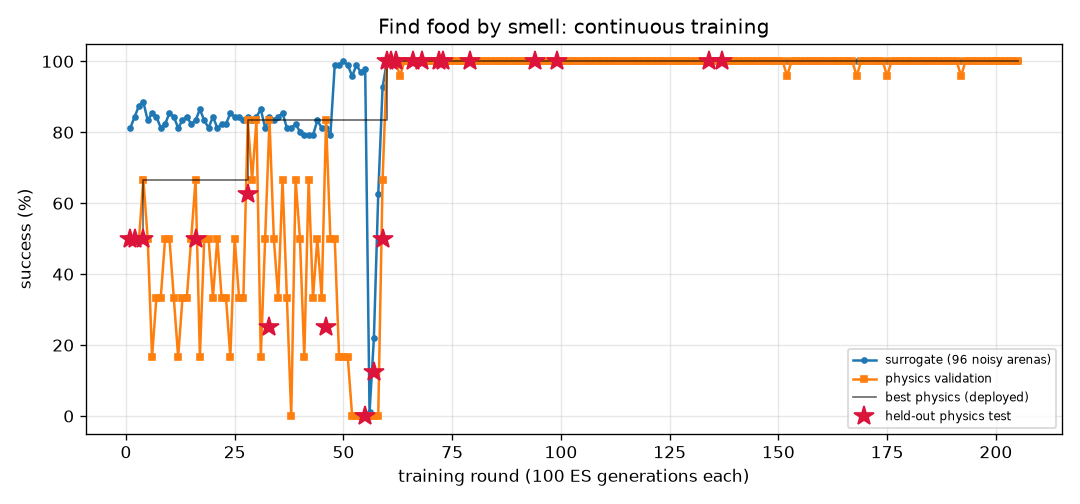
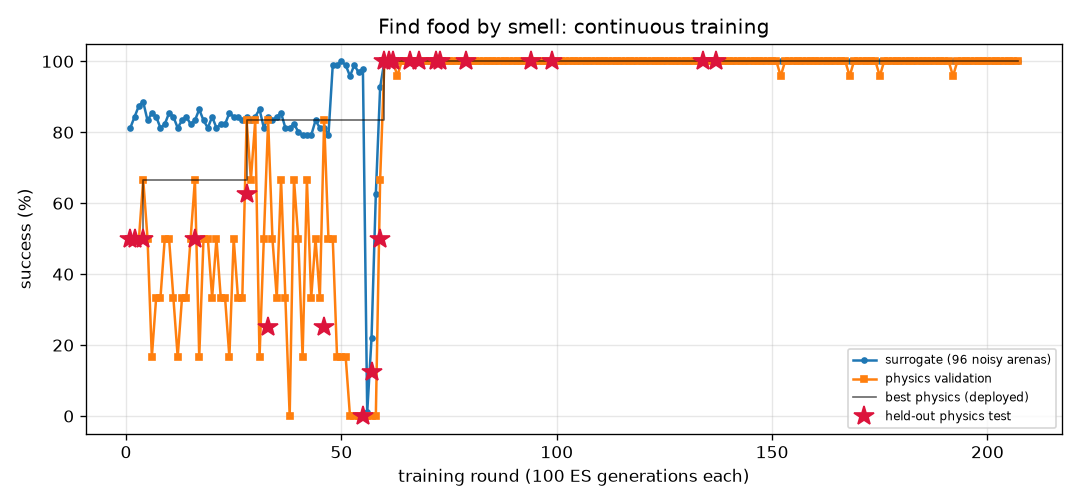
FlyLab: continuous training progress
- walk_forward: optimal, physics val 100% of 24, round 314
- turn: optimal, physics val 100% of 24, round 906
- goto: optimal, physics val 100% of 24, round 253
- odor_seek: optimal, physics val 100% of 24, round 207
- odor_avoid: optimal, physics val 100% of 24, round 817
- light_seek: optimal, physics val 100% of 24, round 447
- light_avoid: optimal, physics val 100% of 24, round 547

diff --git a/projects/09_flylab/training/odor_seek/REPORT.md b/projects/09_flylab/training/odor_seek/REPORT.md
@@ -1,14 +1,14 @@
 # Find food by smell (`odor_seek`) — training report
 
-*Auto-generated by `train_brains.py`, last updated 2026-11-06T22:17:21.*
+*Auto-generated by `train_brains.py`, last updated 2026-11-07T16:23:39.*
 
 ![curve](curve.png)
 
 | | |
 |---|---|
-| rounds | 205 |
-| ES generations | 20500 |
-| physics runs | 4350 |
+| rounds | 207 |
+| ES generations | 20700 |
+| physics runs | 4398 |
 | status | **optimal** |
 | best brain | round 137: physics validation **100%** on 24 arenas, surrogate 100% |
 | held-out physics test | **100%** on 32 unseen arenas (95% CI 89%-100%) (errors: [0.14, 0.05, 0.19, 0.15, 0.13, 0.08, 0.06, 0.06, 0.04, 0.06, 0.02, 0.11, 0.05, 0.1, 0.06, 0.01, 0.11, 0.12, 0.14, 0.08, 0.12, 0.06, 0.06, 0.09, 0.12, 0.05, 0.07, 0.07, 0.12, 0.11, 0.06, 0.11]) |
@@ -17,8 +17,6 @@ Physics error per arena: mm from target at the end (< 1.5 and standing still = s
 
 | round | level | gens | sigma | surrogate | physics val | val errors | test | note |
 |---:|---:|---:|---:|---:|---:|---|---:|---|
-| 166 | 3 | 16600 | 0.024 | 100% | 100% | [0.11, 0.07, 0.13, 0.07, 0.08, 0.03, 0.08, 0.1, 0.06, 0.1, 0.07, 0.05, 0.03, 0.07, 0.06, 0.07, 0.1, 0.1, 0.04, 0.1, 0.04, 0.07, 0.08, 0.07] |  |  |
-| 167 | 3 | 16700 | 0.024 | 100% | 100% | [0.12, 0.14, 0.09, 0.1, 0.16, 0.15, 0.14, 0.13, 0.15, 0.12, 0.1, 0.09, 0.09, 0.15, 0.12, 0.12, 0.11, 0.15, 0.11, 0.18, 0.18, 0.12, 0.07, 0.16] |  |  |
 | 168 | 3 | 16800 | 0.024 | 100% | 96% | [0.22, 0.19, 0.07, 0.12, 0.03, 0.18, 0.11, 0.13, 0.14, 0.08, 18.92, 0.16, 0.19, 0.28, 0.18, 0.09, 0.04, 0.09, 0.19, 0.08, 0.14, 0.07, 0.05, 0.08] |  |  |
 | 169 | 3 | 16900 | 0.024 | 100% | 100% | [0.13, 0.17, 0.18, 0.08, 0.22, 0.36, 0.21, 0.11, 0.25, 0.27, 0.28, 0.21, 0.26, 0.25, 0.16, 0.08, 0.33, 0.08, 0.14, 0.06, 0.11, 0.15, 0.25, 0.1] |  | restart from best |
 | 170 | 3 | 17000 | 0.024 | 100% | 100% | [0.2, 0.14, 0.2, 0.23, 0.12, 0.14, 0.14, 0.14, 0.18, 0.15, 0.19, 0.22, 0.14, 0.13, 0.24, 0.13, 0.17, 0.15, 0.2, 0.15, 0.13, 0.13, 0.18, 0.24] |  |  |
@@ -57,3 +55,5 @@ Physics error per arena: mm from target at the end (< 1.5 and standing still = s
 | 203 | 3 | 20300 | 0.024 | 100% | 100% | [0.14, 0.18, 0.21, 0.17, 0.18, 0.18, 0.26, 0.2, 0.17, 0.19, 0.18, 0.19, 0.19, 0.23, 0.24, 0.23, 0.15, 0.19, 0.22, 0.22, 0.17, 0.28, 0.14, 0.2] |  |  |
 | 204 | 3 | 20400 | 0.024 | 100% | 100% | [0.09, 0.14, 0.09, 0.09, 0.09, 0.06, 0.05, 0.12, 0.08, 0.18, 0.14, 0.05, 0.07, 0.09, 0.08, 0.07, 0.11, 0.12, 0.12, 0.2, 0.05, 0.1, 0.09, 0.07] |  |  |
 | 205 | 3 | 20500 | 0.024 | 100% | 100% | [0.05, 0.16, 0.09, 0.08, 0.14, 0.04, 0.12, 0.11, 0.14, 0.08, 0.13, 0.16, 0.07, 0.09, 0.06, 0.09, 0.18, 0.13, 0.05, 0.07, 0.16, 0.14, 0.08, 0.16] |  | restart from best |
+| 206 | 3 | 20600 | 0.024 | 100% | 100% | [0.13, 0.11, 0.14, 0.14, 0.17, 0.09, 0.13, 0.09, 0.14, 0.09, 0.17, 0.12, 0.1, 0.06, 0.14, 0.14, 0.05, 0.14, 0.12, 0.14, 0.1, 0.17, 0.09, 0.16] |  |  |
+| 207 | 3 | 20700 | 0.024 | 100% | 100% | [0.11, 0.19, 0.14, 0.17, 0.11, 0.15, 0.21, 0.13, 0.2, 0.16, 0.13, 0.2, 0.14, 0.22, 0.1, 0.2, 0.18, 0.15, 0.15, 0.12, 0.16, 0.13, 0.13, 0.12] |  |  |

diff --git a/projects/09_flylab/training/goto/REPORT.md b/projects/09_flylab/training/goto/REPORT.md
@@ -1,14 +1,14 @@
 # Go to a location (`goto`) — training report
 
-*Auto-generated by `train_brains.py`, last updated 2026-11-07T15:50:30.*
+*Auto-generated by `train_brains.py`, last updated 2026-11-07T16:24:32.*
 
 ![curve](curve.png)
 
 | | |
 |---|---|
-| rounds | 251 |
-| ES generations | 25100 |
-| physics runs | 5974 |
+| rounds | 253 |
+| ES generations | 25300 |
+| physics runs | 6022 |
 | status | **optimal** |
 | best brain | round 176: physics validation **100%** on 24 arenas, surrogate 100% |
 | held-out physics test | **100%** on 32 unseen arenas (95% CI 89%-100%) (errors: [0.2, 0.32, 0.19, 0.24, 0.18, 0.2, 0.19, 0.17, 0.22, 0.23, 0.23, 0.26, 0.2, 0.19, 0.24, 0.23, 0.22, 0.24, 0.2, 0.22, 0.2, 0.2, 0.26, 0.19, 0.22, 0.18, 0.26, 0.22, 0.2, 0.26, 0.23, 0.23]) |
@@ -17,8 +17,6 @@ Physics error per arena: mm from target at the end (< 1.5 and standing still = s
 
 | round | level | gens | sigma | surrogate | physics val | val errors | test | note |
 |---:|---:|---:|---:|---:|---:|---|---:|---|
-| 212 | 3 | 21200 | 0.024 | 100% | 100% | [0.42, 0.46, 0.45, 0.39, 0.36, 0.38, 0.45, 0.42, 0.43, 0.37, 0.36, 0.39, 0.45, 0.37, 0.44, 0.44, 0.44, 0.38, 0.36, 0.43, 0.41, 0.39, 0.43, 0.39] |  | restart from best |
-| 213 | 3 | 21300 | 0.024 | 99% | 100% | [0.59, 0.61, 0.48, 0.6, 0.49, 0.56, 0.59, 0.64, 0.61, 0.49, 0.5, 0.58, 0.58, 0.52, 0.5, 0.58, 0.62, 0.6, 0.5, 0.62, 0.56, 0.51, 0.58, 0.62] |  |  |
 | 214 | 3 | 21400 | 0.025 | 100% | 92% | [0.3, 0.34, 0.31, 0.25, 0.06, 0.14, 0.29, 0.28, 0.27, 0.21, 2.43, 0.26, 0.29, 0.26, 0.3, 0.3, 0.33, 0.35, 2.71, 0.27, 0.21, 0.24, 0.32, 0.24] |  |  |
 | 215 | 3 | 21500 | 0.024 | 99% | 100% | [0.48, 0.45, 0.35, 0.43, 0.34, 0.39, 0.5, 0.42, 0.44, 0.36, 0.38, 0.41, 0.45, 0.32, 0.39, 0.38, 0.48, 0.38, 0.34, 0.45, 0.35, 0.38, 0.47, 0.41] |  |  |
 | 216 | 3 | 21600 | 0.025 | 100% | 100% | [0.5, 0.51, 0.49, 0.39, 0.38, 0.4, 0.52, 0.45, 0.45, 0.37, 0.36, 0.38, 0.47, 0.38, 0.42, 0.45, 0.5, 0.4, 0.35, 0.44, 0.44, 0.36, 0.49, 0.38] |  | restart from best |
@@ -57,3 +55,5 @@ Physics error per arena: mm from target at the end (< 1.5 and standing still = s
 | 249 | 3 | 24900 | 0.024 | 99% | 100% | [0.36, 0.39, 0.3, 0.36, 0.29, 0.36, 0.34, 0.38, 0.37, 0.33, 0.32, 0.35, 0.36, 0.38, 0.35, 0.35, 0.38, 0.35, 0.3, 0.32, 0.33, 0.33, 0.38, 0.4] |  |  |
 | 250 | 3 | 25000 | 0.025 | 99% | 100% | [0.42, 0.45, 0.37, 0.42, 0.33, 0.39, 0.43, 0.44, 0.44, 0.36, 0.36, 0.4, 0.42, 0.38, 0.41, 0.37, 0.46, 0.38, 0.33, 0.38, 0.37, 0.39, 0.42, 0.42] |  |  |
 | 251 | 3 | 25100 | 0.025 | 99% | 100% | [0.61, 0.61, 0.44, 0.49, 0.43, 0.47, 0.58, 0.52, 0.57, 0.45, 0.43, 0.46, 0.58, 0.45, 0.56, 0.5, 0.65, 0.49, 0.42, 0.57, 0.48, 0.45, 0.61, 0.5] |  |  |
+| 252 | 3 | 25200 | 0.025 | 100% | 100% | [0.56, 0.61, 0.6, 0.55, 0.55, 0.5, 0.58, 0.54, 0.56, 0.55, 0.52, 0.55, 0.62, 0.49, 0.65, 0.59, 0.62, 0.55, 0.54, 0.6, 0.55, 0.53, 0.62, 0.54] |  | restart from best |
+| 253 | 3 | 25300 | 0.024 | 99% | 100% | [0.7, 0.62, 0.51, 0.52, 0.45, 0.51, 0.62, 0.56, 0.59, 0.47, 0.49, 0.52, 0.64, 0.43, 0.53, 0.53, 0.66, 0.6, 0.47, 0.57, 0.5, 0.46, 0.63, 0.51] |  |  |

diff --git a/projects/09_flylab/training/TRAINING.md b/projects/09_flylab/training/TRAINING.md
@@ -1,6 +1,6 @@
 # FlyLab brains — continuous training log
 
-*Auto-generated by `train_brains.py`, last updated 2026-11-07T15:50:30.*
+*Auto-generated by `train_brains.py`, last updated 2026-11-07T16:24:32.*
 
 Every skill has its own brain and its own training process: surrogate ES rounds, physics validation in MuJoCo, keep-the-best selection, and a held-out physics test that is never used for selection. See each skill's report for its full round-by-round history. Mastery is progressive: passing a level (100% physics validation, >=95% surrogate) doubles the validation and test arena sets; a brain is **optimal** once it holds up at level 3 (>=95% of 24 validation arenas) AND scores >=90% on the 32 held-out test arenas. Test columns show 95% Wilson confidence intervals.
 
@@ -8,8 +8,8 @@ Every skill has its own brain and its own training process: surrogate ES rounds,
 |---|---:|---:|---:|---:|---:|---:|---|
 | [Walk forward](walk_forward/REPORT.md) | 314 | 31400 | 7550 | 100% | 100% of 24 | 100% of 32 (CI 89-100%) | **optimal** |
 | [Turn in place](turn/REPORT.md) | 906 | 90600 | 21990 | 100% | 100% of 24 | 97% of 32 (CI 84-99%) | **optimal** |
-| [Go to a location](goto/REPORT.md) | 251 | 25100 | 5974 | 100% | 100% of 24 | 100% of 32 (CI 89-100%) | **optimal** |
-| [Find food by smell](odor_seek/REPORT.md) | 205 | 20500 | 4350 | 100% | 100% of 24 | 100% of 32 (CI 89-100%) | **optimal** |
+| [Go to a location](goto/REPORT.md) | 253 | 25300 | 6022 | 100% | 100% of 24 | 100% of 32 (CI 89-100%) | **optimal** |
+| [Find food by smell](odor_seek/REPORT.md) | 207 | 20700 | 4398 | 100% | 100% of 24 | 100% of 32 (CI 89-100%) | **optimal** |
 | [Escape a bad smell](odor_avoid/REPORT.md) | 817 | 81700 | 16914 | 97% | 100% of 24 | 97% of 32 (CI 84-99%) | **optimal** |
 | [Walk toward light](light_seek/REPORT.md) | 447 | 44700 | 7608 | 100% | 100% of 24 | 100% of 32 (CI 89-100%) | **optimal** |
 | [Hide from light](light_avoid/REPORT.md) | 547 | 54700 | 13400 | 100% | 100% of 24 | 100% of 32 (CI 89-100%) | **optimal** |
